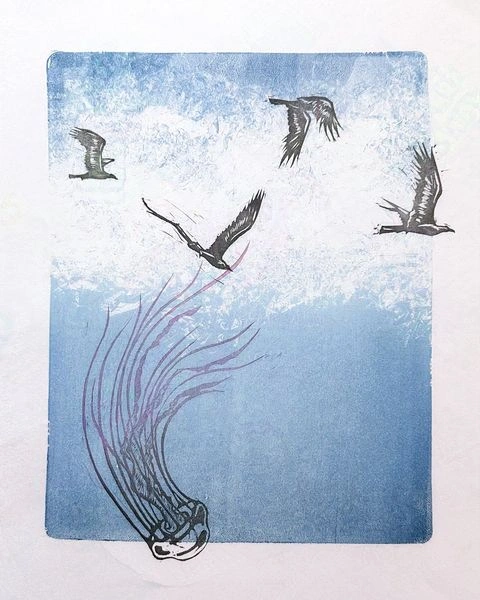
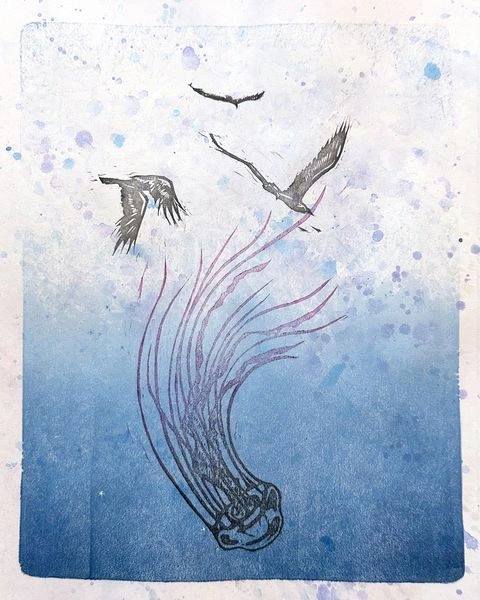
image updates

diff --git a/src/components/TabEvents.vue b/src/components/TabEvents.vue
@@ -24,6 +24,23 @@
           </li>
           <li>
             <p>
+              <strong>Art in the Park</strong><br />
+              June 7th, 10am - 3pm - I'll be at the Natick Art Association's twice annual art fair at Shaw Park in South
+              Natick.
+              <br />
+              <a href="https://www.natickartassociation.org/art-in-the-park" target="_blank">Art in the Park Info</a>
+            </p>
+          </li>
+        </ul>
+        <br />
+        <h2>Past Events</h2>
+        <p>
+          If you stopped by at one of the many events I was at in 2025, it was great to meet you! I had so much fun over
+          the past year, doing new things and meeting new folks. Hope to connect in 2026!
+        </p>
+        <ul>
+          <li>
+            <p>
               <strong>Post Road Art Center Exhibition</strong><br />
               April 20th - May 18th - My pieces <strong>Narcissus</strong> and <strong>Season's Entrance</strong> are up
               and for sale in the juried exhibition at
@@ -43,23 +60,6 @@
               >
             </p>
           </li>
-          <li>
-            <p>
-              <strong>Art in the Park</strong><br />
-              June 7th, 10am - 3pm - I'll be at the Natick Art Association's twice annual art fair at Shaw Park in South
-              Natick.
-              <br />
-              <a href="https://www.natickartassociation.org/art-in-the-park" target="_blank">Art in the Park Info</a>
-            </p>
-          </li>
-        </ul>
-        <br />
-        <h2>Past Events</h2>
-        <p>
-          If you stopped by at one of the many events I was at in 2025, it was great to meet you! I had so much fun over
-          the past year, doing new things and meeting new folks. Hope to connect in 2026!
-        </p>
-        <ul>
           <li>
             <p>
               <strong>Art in Bloom</strong><br />

diff --git a/src/components/TabAbout.vue b/src/components/TabAbout.vue
@@ -19,8 +19,8 @@
           places, plants, and animals.
         </p>
         <p>
-          Looking for a piece of art not listed here? Recently the build of older work was moved to an archive. If it's
-          a piece of Nathalie's work that was posted online, it's almost guaranteed to be listed there.
+          Looking for a piece of art not listed here? If it's a piece of Nathalie's work that was posted online, it's
+          almost guaranteed to be listed in the archives.
           <br />
           <a href="https://archive.paperfox.art" target="_blank">Browse the Archives</a>
         </p>

diff --git a/src/components/Filters.vue b/src/components/Filters.vue
@@ -15,7 +15,6 @@ const isDetailsOpen = ref(false);
 
 const filterButtons = [
   { filterType: 'media', filterValue: 'watercolor', filterName: 'Watercolor & Ink' },
-  { filterType: 'media', filterValue: 'micron pen', filterName: 'Micron Pen' },
   { filterType: 'media', filterValue: 'printmaking', filterName: 'Printmaking' },
   { filterType: 'media', filterValue: 'digital', filterName: 'Digital' },
   { filterType: '', filterValue: 'clear', filterName: 'No filters' },
@@ -90,7 +89,7 @@ const applyFilter = (filter, event) => {
           <span class="visually-hidden" v-if="activeFilterClass[filter.filterValue]"> active</span>
         </button> -->
       </div>
-      <!-- <p>Showing {{ filteredArts.length }} of {{ artwork.length }} art pieces</p> -->
+      <p>Showing {{ filteredArts.length }} of {{ artwork.length }} art pieces</p>
     </details>
     <ArtMasonry :images="filteredArts" />
   </div>

diff --git a/src/components/Dialog.vue b/src/components/Dialog.vue
@@ -91,6 +91,7 @@ watch(
     </header>
     <section class="modal-content">
       <img :src="`./art/${modalImage?.link}`" :alt="modalImage?.desc" />
+      <img v-for="img in modalImage?.additionalImages" :key="img" :src="`./art/${img}`" :alt="modalImage?.desc" />
       <div>
         <p>
           {{ modalImage?.date }} &nbsp; | &nbsp;